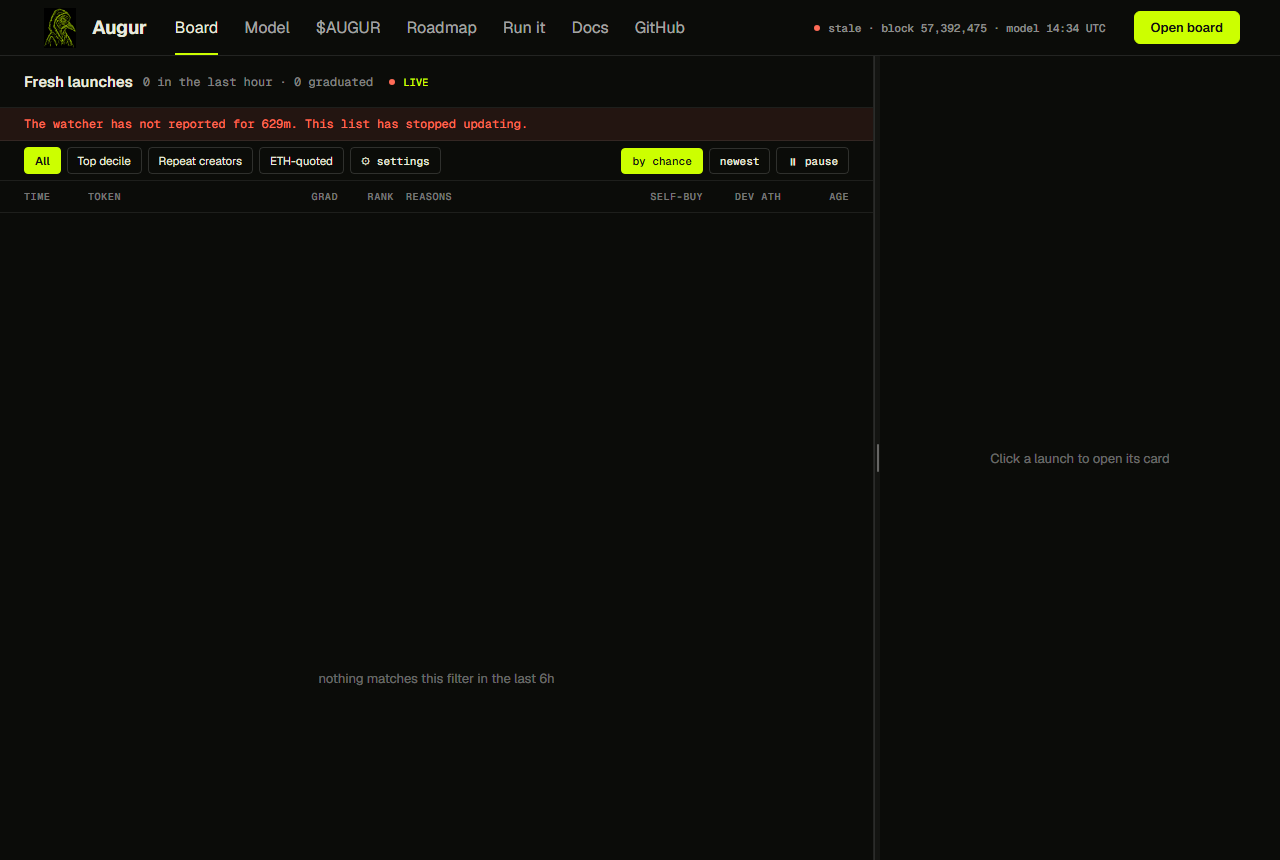
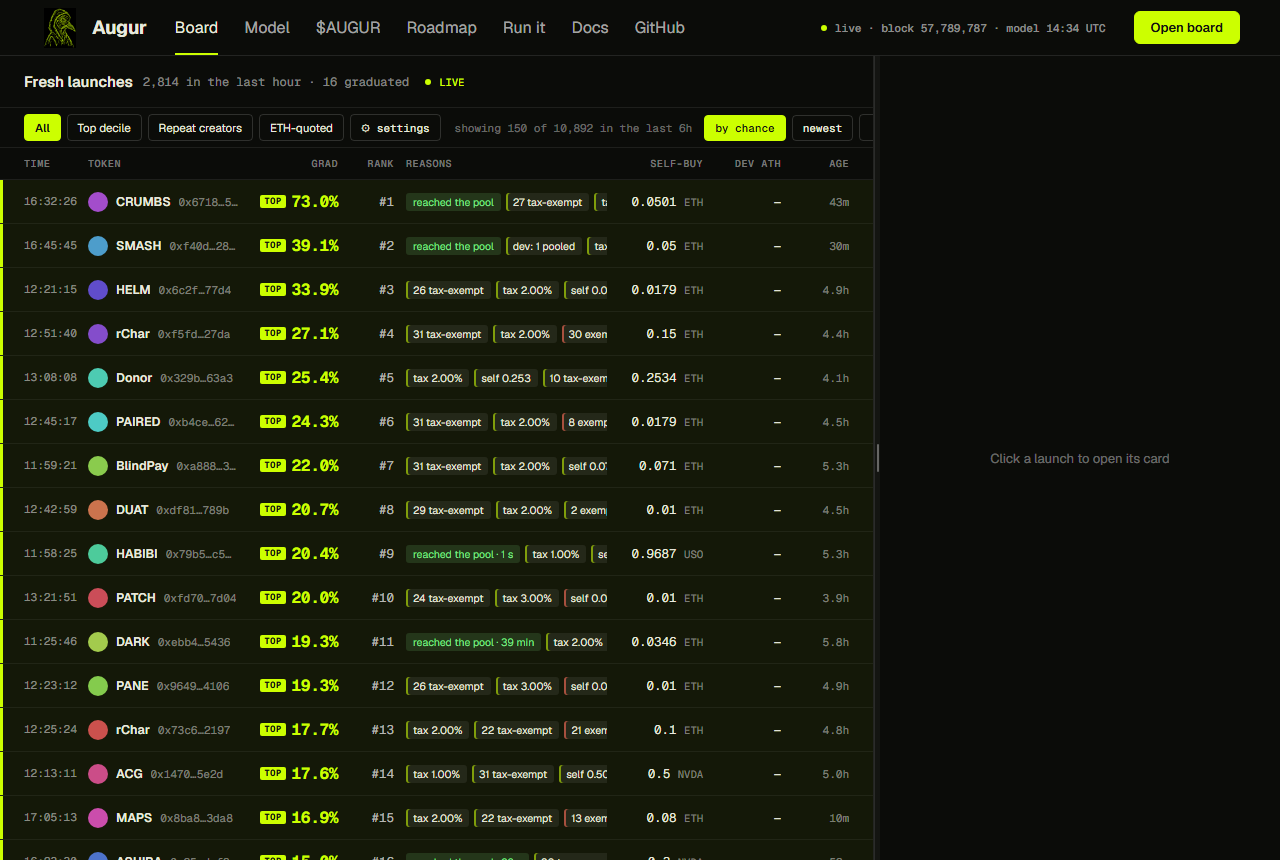
Retake the last two screenshots under the new name
The feed and the terminal screen are built from launches of the last six hours,
and both were empty: ingest had been stopped for ten hours, so backfill closed
the gap, and then the board still showed nothing because backfill writes factory
events while the feature matrix needs decoded launch transactions. Enriching the
visible window took eleven minutes at fourteen launches a second and filled it
completely, 10,754 of 10,755.

Both images are live data now. The feed caption moves with them: it pointed at
numbers from a screenshot that no longer exists, and now reads LEATHER at 8.2%,
seventieth of 11,158, with the sixteen wallets its creator waived the opening tax
for called out beside it.

`Description=augur live recalibration` arrived from main mid-merge and is
capitalised with the other unit descriptions.

Worth knowing while reading the board shot: the live correction is not being
applied. calibration.json is stamped for model 361ad1f2f0b9 and the model
serving is 8ddaf32dbaa7, so liveFor refuses to inherit it, which is the rule
working as intended. Those scores are the raw model, and the raw model is
confident: 73% at the top against a 2.2% base rate, median 1.14%. The
recalibration timer that arrived on main is what closes that gap.

diff --git a/README.md b/README.md
@@ -109,10 +109,10 @@ flowchart LR
 
 <img src="docs/img/term-watch.png" alt="Augur watch">
 
-**`#175 of 6,176`** is the useful half. On its own "1.8%" means little; "175th best of the last six
-hours" tells you whether to look now or never. The line reading *"not logged: seen too late for the
-claim to count"* is the prediction log refusing a launch it saw more than five minutes in. The
-record is allowed to be thin, but never flattering.
+**`#70 of 11,158`** is the useful half. On its own LEATHER's "8.2%" means little; "seventieth best
+of the last six hours" tells you whether to look now or never, and the `16` beside it is sixteen
+wallets the creator waived the opening tax for. Every launch on that screen was scored the second it
+landed and written to the prediction log before anyone knew how it ended.
 
 Or the same feed on a local page, which is the same engine behind `npm run board`:
 

diff --git a/DEPLOY.md b/DEPLOY.md
@@ -335,7 +335,7 @@ curl -s localhost:4663/api/health
 ```bash
 sudo tee /etc/systemd/system/ponscan-recalibrate.service > /dev/null <<'EOF'
 [Unit]
-Description=augur live recalibration
+Description=Augur live recalibration
 
 [Service]
 Type=oneshot
@@ -345,7 +345,7 @@ ExecStart=/usr/bin/npm run --silent recalibrate -- --write
 EOF
 sudo tee /etc/systemd/system/ponscan-recalibrate.timer > /dev/null <<'EOF'
 [Unit]
-Description=augur live recalibration
+Description=Augur live recalibration
 
 [Timer]
 OnBootSec=30min
